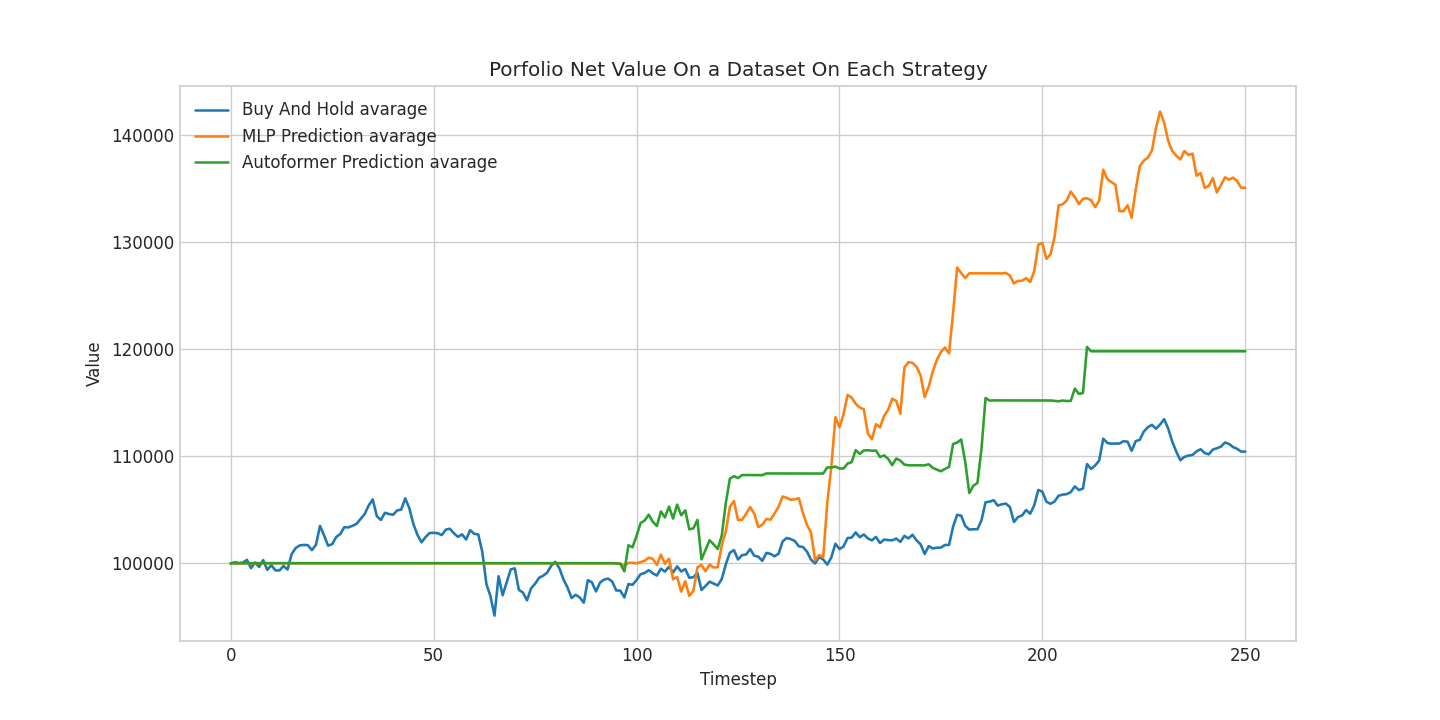
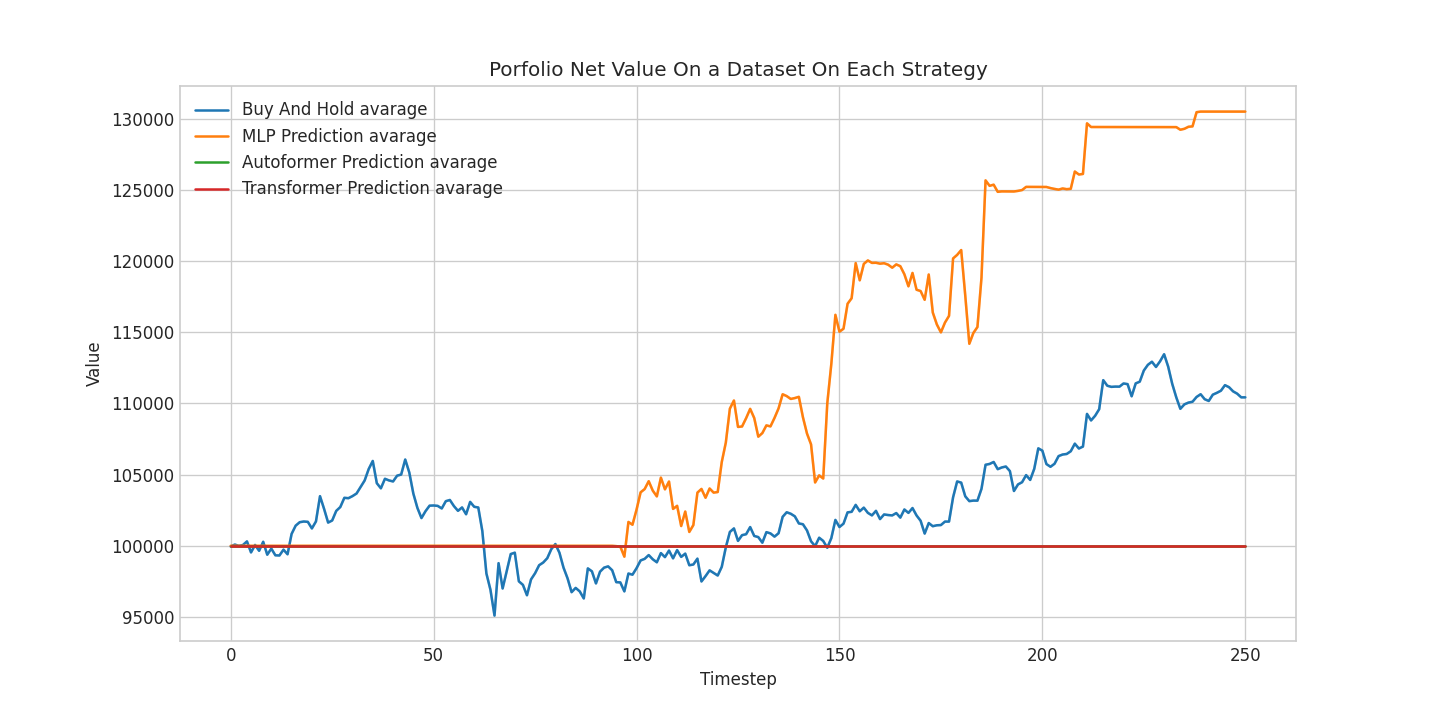
added transformer to expiment, fixed mse

diff --git a/models/Transformer.py b/models/Transformer.py
@@ -1,0 +1,70 @@
+import torch
+import torch.nn as nn
+from layers.Transformer_EncDec import Decoder, DecoderLayer, Encoder, EncoderLayer
+from layers.SelfAttention_Family import FullAttention, AttentionLayer
+from layers.Embed import DataEmbedding
+
+
+class Model(nn.Module):
+    """
+    Vanilla Transformer with O(L^2) complexity
+    """
+    def __init__(self, configs):
+        super(Model, self).__init__()
+        self.pred_len = configs.pred_len
+        self.output_attention = configs.output_attention
+
+        # Embedding
+        self.enc_embedding = DataEmbedding(configs.enc_in, configs.d_model, configs.embed, configs.freq,
+                                           configs.dropout)
+        self.dec_embedding = DataEmbedding(configs.dec_in, configs.d_model, configs.embed, configs.freq,
+                                           configs.dropout)
+        # Encoder
+        self.encoder = Encoder(
+            [
+                EncoderLayer(
+                    AttentionLayer(
+                        FullAttention(False, configs.factor, attention_dropout=configs.dropout,
+                                      output_attention=configs.output_attention), configs.d_model, configs.n_heads),
+                    configs.d_model,
+                    configs.d_ff,
+                    dropout=configs.dropout,
+                    activation=configs.activation
+                ) for l in range(configs.e_layers)
+            ],
+            norm_layer=torch.nn.LayerNorm(configs.d_model)
+        )
+        # Decoder
+        self.decoder = Decoder(
+            [
+                DecoderLayer(
+                    AttentionLayer(
+                        FullAttention(True, configs.factor, attention_dropout=configs.dropout, output_attention=False),
+                        configs.d_model, configs.n_heads),
+                    AttentionLayer(
+                        FullAttention(False, configs.factor, attention_dropout=configs.dropout, output_attention=False),
+                        configs.d_model, configs.n_heads),
+                    configs.d_model,
+                    configs.d_ff,
+                    dropout=configs.dropout,
+                    activation=configs.activation,
+                )
+                for l in range(configs.d_layers)
+            ],
+            norm_layer=torch.nn.LayerNorm(configs.d_model),
+            projection=nn.Linear(configs.d_model, configs.c_out, bias=True)
+        )
+
+    def forward(self, x_enc, x_mark_enc, x_dec, x_mark_dec,
+                enc_self_mask=None, dec_self_mask=None, dec_enc_mask=None):
+
+        enc_out = self.enc_embedding(x_enc, x_mark_enc)
+        enc_out, attns = self.encoder(enc_out, attn_mask=enc_self_mask)
+
+        dec_out = self.dec_embedding(x_dec, x_mark_dec)
+        dec_out = self.decoder(dec_out, enc_out, x_mask=dec_self_mask, cross_mask=dec_enc_mask)
+
+        if self.output_attention:
+            return dec_out[:, -self.pred_len:, :], attns
+        else:
+            return dec_out[:, -self.pred_len:, :]  # [B, L, D]

diff --git a/predictor_experiments.py b/predictor_experiments.py
@@ -24,13 +24,12 @@ from agents.basicStrategies import BasicStrategy, BasicStrategy_auto, Buy_And_Ho
 from results.plot_results import plot_results
 
 
-def create_args(all_tickers, indicators = None):
-
+def create_args(all_tickers, indicators = None, freq = 'd'):
     args = {}
     settings = {}
 
     for tic in all_tickers.keys():
-        args[tic], settings[tic] = get_config(all_tickers[tic], tic)
+        args[tic], settings[tic]= get_config(all_tickers[tic], tic)
 
     return args, settings
 
@@ -165,7 +164,8 @@ if __name__ == '__main__':
     nasdaq100_tic = all_tickers['nasdaq100']
     
     all_tickers = {'sp100': sp100_tic}
-    all_tickers = {'a':['AMGN','AAPL'], 'msft':['MSFT','GOOGL'], 'meta':['META']} # for testing
+    # all_tickers = {'a':['AMGN','AAPL'], 'msft':['MSFT','GOOGL'], 'meta':['META']} # for testing
+    all_tickers = {'meta':['META']}
     
     all_args, all_settings = create_args(all_tickers)
 
@@ -226,6 +226,21 @@ if __name__ == '__main__':
                                                                  indicators=indicators, 
                                                                  name = 'autoformer prediction', 
                                                                  dataset_name=tic)
+            print('Training Transformer')
+            args.model = 'Transformer'
+            transformer = Exp_Main(args)
+            transformer.train(all_settings[tic])
+
+            print('Training Done')
+            auto_strat = BasicStrategy_auto(args, transformer, transformer.scaler, hmax = 100)
+
+            results[tic]['Transformer Prediction'] = run_strategy(df, 
+                                                                 auto_strat, 
+                                                                 tickers, 
+                                                                 indicators=indicators, 
+                                                                 name = 'transformer prediction', 
+                                                                 dataset_name=tic)
+            args.model = 'Autoformer'
 
     plot_results(trials,all_tickers)
 

diff --git a/calculate_metrics.py b/calculate_metrics.py
@@ -122,21 +122,16 @@ class MetricsCalculator:
         """        
         assert predictions.shape == actuals.shape, f'Shapes of predictions and actuals must match for MSE calculation. Got {predictions.shape} and {actuals.shape}.'
         
-        # Ensure same length
-        # min_len = min(len(predictions), len(actuals))
-        # predictions_array = predictions[:min_len]
-        # actuals_array = actuals[:min_len]
-        
-    
-        min = actuals.min(axis = 0)
-        max = actuals.max(axis = 0)
+        min = actuals.min()
+        max = actuals.max()
 
         print(max, min)
         print('Predictions shape before scaling:', predictions.shape)
 
-        assert min.shape == max.shape == predictions.shape[1:] == actuals.shape[1:], f'Shapes of min, max, and predictions must match. Got {min.shape}, {max.shape}, and {predictions.shape[1:]}.'
-        norm_preds = predictions - min/ (max - min)
-        norm_act = actuals - min/ (max - min)
+        # assert min.shape == max.shape == predictions.shape[1:] == actuals.shape[1:], f'Shapes of min, max, and predictions must match. Got {min.shape}, {max.shape}, and {predictions.shape[1:]}.'
+        norm_preds = (predictions - min)/(max - min + 1e-8) # add small epsilon to avoid division by zero
+        norm_act = (actuals - min)/(max - min + 1e-8)
+        assert np.all(norm_preds <= 1) and np.all(norm_act <= 1), f"Normalized predictions and actuals should be <= 1 {norm_preds}, {norm_act}"
         mse = np.mean((norm_preds - norm_act) ** 2)
         print(f'Mean Squared Error: {mse:.4f}')
         return mse

diff --git a/conf.py b/conf.py
@@ -2,7 +2,7 @@
 
 from utils.tools import dotdict
 
-def get_config(tickers, data_name, freq = 'd', indicators = None ):
+def get_config(tickers, data_name, freq = 'd', indicators = None, model = 'Autoformer'):
 
     args, _ = get_train_config()
 
@@ -17,9 +17,10 @@ def get_config(tickers, data_name, freq = 'd', indicators = None ):
     args.c_out = len(tickers)
     args.train_epochs = 1
     args.trials = 1
+    args.patience = 5
 
     args.d_model = 512  # *2
-
+    args.model = model
 
     args.freq = freq
 
@@ -50,7 +51,7 @@ def get_config(tickers, data_name, freq = 'd', indicators = None ):
                 args.distil,
                 args.des, 0)
     
-    setting = f'{data_name}_{args.start_training}_{args.end_training}_{args.end_testing}_ft:{args.enc_in}_te:{args.train_epochs}'
+    setting = f'_{data_name}_{args.start_training}_{args.end_training}_{args.end_testing}_ft:{args.enc_in}_te:{args.train_epochs}_d:{args.d_model}_sl:{args.seq_len}_pl:{args.pred_len}'
     
     return args, setting
 

diff --git a/exp/exp_main.py b/exp/exp_main.py
@@ -6,6 +6,7 @@ logging.basicConfig(format='%(asctime)s,%(msecs)03d %(levelname)-8s [%(filename)
 from data_provider.data_factory import data_provider
 from exp.exp_basic import Exp_Basic
 from models import Autoformer
+from models import Transformer
 from utils.tools import EarlyStopping, adjust_learning_rate, visual
 from utils.metrics import metric
 
@@ -30,7 +31,7 @@ class Exp_Main(Exp_Basic):
     def _build_model(self):
         model_dict = {
             'Autoformer': Autoformer,
-            # 'Transformer': Transformer,
+            'Transformer': Transformer,
             # 'Informer': Informer,
             # 'Reformer': Reformer,
         }
@@ -115,6 +116,7 @@ class Exp_Main(Exp_Basic):
         return total_loss
 
     def train(self, setting):
+        setting = str(self.args.model)+'_' + setting
         train_data, train_loader = self._get_data(flag='train')
         vali_data, vali_loader = self._get_data(flag='val')
         test_data, test_loader = self._get_data(flag='test')

diff --git a/results/plot_results.py b/results/plot_results.py
@@ -59,9 +59,11 @@ def plot_results(results, tickers):
         # plt.figure(figsize=(12, 6), dpi=120)
         plt.style.use("seaborn-v0_8-whitegrid")
 
-        fig, axes = plt.subplots(3, 1, figsize = (14,8), sharex = False, sharey=False)
-
-        axes = axes.flatten()
+        fig, axes = plt.subplots(min(5, features), 1, figsize = (16,8), sharex = False, sharey=False)
+        if min(5, features) == 1:
+             axes = [axes]
+        else:
+            axes = axes.flatten()
 
         plt.title(f'Agent predicitons on dataset {data_name} for an example asset')
         plt.ylabel('Price')
